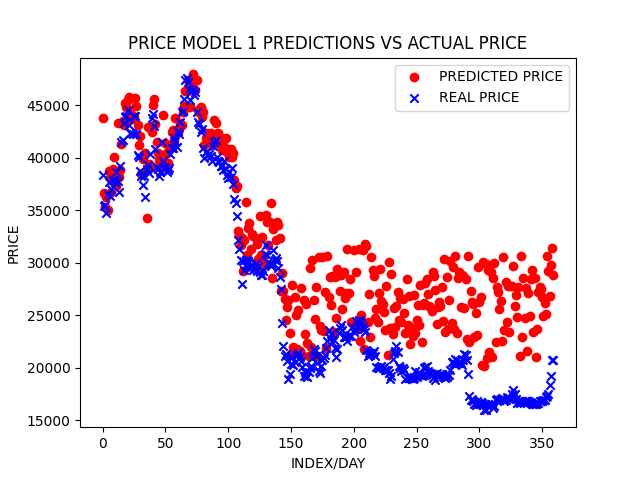
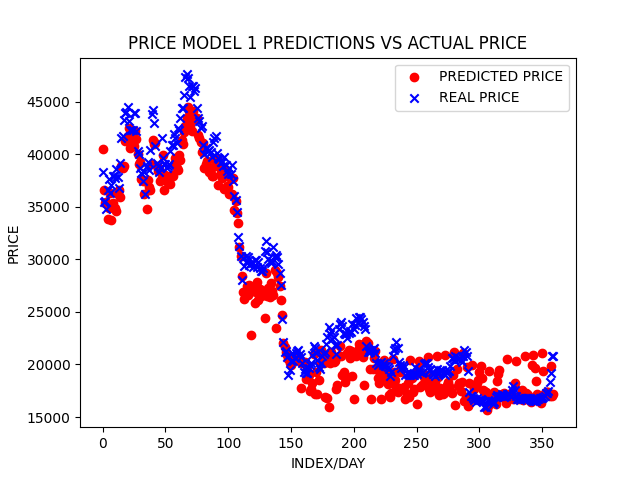
Ensemble predictions

diff --git a/main.py b/main.py
@@ -4,22 +4,13 @@ from train_test_eval_funcs import *
 import matplotlib.pyplot as plt
 from sklearn.preprocessing import StandardScaler
 import copy
+import numpy as np
+from ensembl_funcs import *
 
 '''
 TO DO: 
-
-TEST TO MAKE SURE THAT WE ELIMINATE THE FIRST 5 IN UNSCALED Y'S AND NOT THE LAST 5
-JUST WHATEVER DOES BETTER WHEN YOU TEST BOTH ON 1000 EPOCHS
-MAKE SURE YOU CHANGE NOT ONLY THE TRAIN_TST_EVALS FUNCTIONS BUT FOR GRAPGING YOU
-NEED TO ADJUST THEM WHEN YOU PASS IT YOU'LL SEE IT BELLOW YOU PASS THEM IN AS LIKE 
-[UNSCALED_PRICE[5:], UNSCALED_PERCENT[5:]]
-
-MAIN 2 SHOULD CONVER THE PRICES AND THE PERCENTAGES TO UNSCALED VALUES
-BOTH THE PREDICTIONS AND THE ACTUAL VALUES SO WE CAN SEE HOW FAR OFF IT REALLY IS 
-AT A PRICE/PERCENTAGE SCALE THAT IS NOT STANDARDIZED
-DID THIS WHOLE THING WEIRD COULD PROBABLY BE IMPROVED THINK THERE WAS A REASON
-I SCALED EVERYTHING THINK IT SEEMED TO IMPROVE EVERYTHING DURING TESTING BEEN A WHILE DON'T 
-ENTIRLEY REMEMBER BUT 
+BEFORE PASSING UNSCALED TO THE ENSEMBLE FUNC MAKE SURE TO CUT OFF THE FIRST 5 
+NEED TO FLATTEN PREDICTIONS
 '''
 
 def main():
@@ -62,34 +53,51 @@ def main():
 			preds,loss= test(models[i], price_test_data,scaler_price,unscaled_price)
 			predictions.append(preds)
 			test_losses.append(loss)
-			
 			price_model+=1
 		else:
-			#training_losses.append(train(models[i], percent_train_data,epochs,learning_rates[i]))
 			training_losses.append(train(models[i], percent_train_data,epochs,.001))
-			#preds,Y,loss, diff = test_for_preds(models[i], price_test_data,scaler)
 			preds,loss = test(models[i], percent_test_data,scaler_percent,unscaled_percent)
 			predictions.append(preds)
 			test_losses.append(loss)
 			percent_model +=1
+	
 	plot_train_loss(model_labels,training_losses,True)
-	'''
-	NOTE THAT IF IT'S NOT THE FIRST 5 even though i'm PRETTY SURE IT IS WE WILL HAVE TO CHANGE THIS
-	'''
 	plot_test_results(model_labels,predictions,[unscaled_price[5:],unscaled_percent[5:]],True)
+
+	#MAY HAVE TO USE NEW NAMES CAUSE I THINK IT FUCKS WITH PLOTTING
+	ensemble_predictions = []
+	targets = unscaled_price[5:].flatten()
+	for i in range(len(predictions)):
+		ensemble_predictions.append(predictions[i].flatten())
+
+	preds = []
+	errors = []
+	for i in range(len(ensemble_predictions)):
+		if i%2==0:
+			preds.append(ensemble_predictions[i])
+			errors.append(price_error(ensemble_predictions[i],targets))
+		else:
+			temp1,temp2 = percent_to_val(ensemble_predictions[i],targets)
+			preds.append(temp1)
+			errors.append(temp2)
+
+
+
+	ensemble_preds = get_ensemble_pred(preds,errors)
+
+	plot_ensemble(ensemble_preds,targets,True)
 	plt.show()
 
 
 def plot_train_loss(title, data,save_plot=False):
 	for x,i in enumerate(data):
 		plt.figure()
-		#x = [i for i in range(len(i))]
 		plt.plot(i)
 		plt.xlabel('EPOCH')
 		plt.ylabel("AVERAGE BATCH LOSS PER EPOCH")
 		plt.title(f"{title[x]} AVERAGE BATCH LOSS PER EPOCH")
 		if save_plot:
-			plt.savefig(f'{title[x]} train_losses.png')
+			plt.savefig(f'graphs_results/{title[x]} train_losses.png')
 
 def plot_test_results(title, preds,actual,save_plot=False):
 	for x,i in enumerate(preds):
@@ -103,7 +111,21 @@ def plot_test_results(title, preds,actual,save_plot=False):
 		plt.title(f"{title[x]} PREDICTIONS VS ACTUAL PRICE")
 		plt.legend()
 		if save_plot:
-			plt.savefig(f'{title[x]} Prediction_results.png')
+			plt.savefig(f'graphs_results/{title[x]} Prediction_results.png')
+
+def plot_ensemble(preds, targets,save_plot=False):
+	plt.figure()
+	x_axis = [point for point in range(len(targets))]
+	plt.scatter(x_axis, preds, color = 'red', marker='o', label="PREDICTED PRICE")
+	plt.scatter(x_axis,targets,color='blue',marker='x',label="REAL PRICE")
+	plt.xlabel('INDEX/DAY')
+	plt.ylabel("PRICE")
+	plt.title(f"ENSEMBLE PREDICTIONS VS ACTUAL PRICE")
+	plt.legend()
+	if save_plot:
+		plt.savefig(f'graphs_results/ENSEMBLE_Prediction_results.png')
+
+
 
 
 

diff --git a/ensembl_funcs.py b/ensembl_funcs.py
@@ -1,0 +1,35 @@
+import numpy as np
+
+def percent_to_val(preds,targets):
+	price_preds = [preds[0]/100 * targets[0] + targets[0]] + [(preds[i]/100 * targets[i-1] + targets[i-1]) for i in range(1,len(preds))]
+	targets = targets[1:]
+	errors = sum([(abs(i-x)) for i,x in zip(price_preds,targets)]) / len(price_preds)
+	return price_preds, errors
+
+def price_error(preds,targets):
+	return sum(abs(i-x) for i,x in zip(preds,targets))/len(targets)
+
+
+def get_ensemble_pred(preds, errors):
+    weights = [1/i for i in errors]
+    total_weight = sum(weights)
+    normalized_weights = [weight/total_weight for weight in weights]
+    def helper(preds, weight):
+        return [i * weight for i in preds]
+
+    weighted_preds = zip(*[helper(i, x) for i, x in zip(preds, normalized_weights)])
+    return [sum(elements) for elements in weighted_preds]
+
+
+
+
+
+
+
+
+
+
+
+
+
+

diff --git a/train_test_eval_funcs.py b/train_test_eval_funcs.py
@@ -43,6 +43,7 @@ def test(model,test_data,scaler,Y):
 			preds = model(X)
 			preds = convert(scaler,preds)
 			test_loss = loss_fn(preds.reshape(Y.shape),Y)
+
 	return preds.numpy(),test_loss.item()
 
 def convert(scaler, predictions):
@@ -50,6 +51,8 @@ def convert(scaler, predictions):
 	unscaled_preds = scaler.inverse_transform(predictions.reshape(-1,1))
 	back_to_torch = torch.from_numpy(unscaled_preds)
 	return back_to_torch
+
+
 
 
 

diff --git a/percent_pred_models.py b/percent_pred_models.py
@@ -1,6 +1,5 @@
 import torch
 import torch.nn as nn
-
 class Percent_model_1(nn.Module):
     def __init__(self, num_features=10,lstm_hidden_size=10,
                 fc_hidden_size=10,num_layers=2, dropout_prob=0):

diff --git a/README.md b/README.md
@@ -1,57 +1,84 @@
 # SUMMARY
-Predict tommorows BTC price and or the percent change in the price given 5 days (this can be changed in
-the code to add more or less days) of financial features. Uses 10 features that are historical 
-financial data about bitcoin which i have taken from https://messari.io/report/messari-metrics.
-Graph of incomplete results (see Note) can be found in the graphs_results folder.
-# NOTE:
-Not entirely finished waiting still
-on getting the results of hyperparamiters so results are not optimal. 
-Current results based on innacuarte params and for perdiction models used a learning rate of .001 and 
-for pure price predictions used a learning rate of .01.
-Graphs/results are the from running for 500 epochs.
-graphs_results folder contains current predictions and the average loss per batch for each epoch
+
+Predict tomorrow's BTC price and/or the percent change in the price given 5 days 
+(this can be changed in the code to add more or fewer days) of financial features. 
+Uses 10 features that are historical financial data about Bitcoin,
+which were obtained from [Messari Metrics](https://messari.io/report/messari-metrics). 
+Graphs of incomplete results (see Note) can be found in the "graphs_results" folder.
+
+# NOTE
+
+This project is not entirely finished, as we are waiting to obtain the results of hyperparameters, 
+so results are not optimal. Current results are based on inaccurate parameters. For prediction models, 
+a learning rate of 0.001 is used, and for pure price predictions, a learning rate of 0.01 is employed.
+Graphs/results are generated after running for 500 epochs.
+The [graphs_results](graphs_results) folder contains current predictions and the average loss per batch for each epoch.
+
 # FILES
 
-| File                     | Description                                                                                          |
-|-------------------------- |------------------------------------------------------------------------------------------------------|
-| [data.csv](data.csv)      | CSV file containing raw data.                                                                        |
-| [dataClass.py](dataClass.py) | Class to store and work with data, breaking it into prices and statistics. Handles data scaling, batching, and prediction day configuration. |
-| [get_best_models.py](get_best_models.py) | Helper function to determine the best model. |
-| [main.py](main.py)       | Run file to get results (please note that optimal hyperparameters are not available yet).         |
-| [params.json](params.json) | JSON file containing the best hyperparameters for the models. (NOTE NOT ACCURATE YET)|
-| [percent_pred_models.py](percent_pred_models.py) | Contains all 4 models that predict the next day's percent change in price. |
-| [price_pred_models.py](price_pred_models.py) | Contains all 4 models that predict the next day's price. |
-| [train_test_eval_funcs.py](train_test_eval_funcs.py) | Functions called by the main script to train and test the models. |
-| [validation_functions.py](validation_functions.py) | Functions used for validation purposes. |
-| [validation_main.py](validation_main.py) | Run file for obtaining hyperparameters for all 4 models. |
-| [TODO.txt](TODO.txt)     | A file containing a to-do list and notes on what needs to be done. |
-| [graphs_results](graphs_results) | Directory containing graphs and results (unscaled and currently not the best versions). |
+| File                                         | Description                                                          |
+|---------------------------------------------- |----------------------------------------------------------------------|
+| [data.csv](data.csv)                          | CSV file containing raw data.                                        |
+| [dataClass.py](dataClass.py)                  | Class to store and work with data, breaking it into prices and statistics. Handles data scaling, batching, and prediction day configuration. |
+| [get_best_models.py](get_best_models.py)      | Helper function to determine the best model.                           |
+| [main.py](main.py)                            | Run file to get results (please note that optimal hyperparameters are not available yet). |
+| [params.json](params.json)                    | JSON file containing the best hyperparameters for the models (NOTE: NOT ACCURATE YET). |
+| [Percent Change Prediction Models](percent_pred_models.py) | Contains all 4 models that predict the next day's percent change in price. |
+| [Price Prediction Models](price_pred_models.py) | Contains all 4 models that predict the next day's price. |
+| [Train Test and Evaluation Functions](train_test_eval_funcs.py) | Functions called by the main script to train and test the models. |
+| [validation functions](validation_functions.py) | Functions used for validation purposes. |
+| [validation driver](validation_main.py)       | Run file for obtaining hyperparameters for all 4 models. |
+| [TODO](TODO.txt)                              | A file containing a to-do list and notes on what needs to be done. |
+| [graphs and results](graphs_results)         | Directory containing graphs and results (unscaled and currently not the best versions). |
+| [Ensemble Functions](ensembl_funcs.py)        | Functions that help combine a weighted prediction from all models.
 
 # HOW TO RUN/Dependencies
+
 ## DEPENDENCIES
-### PYTORCH
-### SKLEARN
-### PANDAS
-### NUMPY
-### PANDAS 
+- PYTORCH
+- SKLEARN
+- PANDAS
+- NUMPY
+- PANDAS
 
-USES PYTHON3
-(Sorry i'm a 'data scientist' which means i just use libraries all day.) 
-SIMPLY RUN MAIN TO REPLICATE RESULTS
+USES PYTHON 3
 
-# TO-DO:
-1. Finish getting optimal hyper params
-2. Add more visualization
-3. Post results 
-4. Refactor my DataClass so I don't have to manually rescale
-5. Refactor to allow for easier customization whether that be to add and or reduce features
-or increases the number of days used to predict the next day
-6. Record results of predicting tomorows price predictions see how much money I would have 
-lost/gained if I pulled out my investments on predictions of it
-going down/vs putting money back in when I preict it going up
-7. Combine all models and predictions weighing it by the accuracy (possibly see what model is best at predicting 
-large/small changes and weight it using that) and essentially combine the predictions to make a more 
-informed decision
-8. Stop training when learning rate stops moving and or drops below a certain threshold
+(Sorry, I'm a 'data scientist,' which means I just use libraries all day.)
 
+Simply run `main.py` to replicate the results.
+
+# TO-DO
+
+1. Finish getting optimal hyperparameters.
+2. Add more visualization.
+3. Post results.
+4. Refactor my DataClass so I don't have to manually rescale.
+5. Refactor to allow for easier customization, whether that means adding or reducing features or increasing the number of days used to predict the next day.
+6. Record results of predicting tomorrow's price predictions to see how much money I would have gained or lost if I pulled out my investments on predictions of it going down versus putting money back in when I predict it going up.
+7. Stop training when the learning rate stops moving or drops below a certain threshold.
+
+
+# NOTES ON ENSEMBLE
+
+The Ensemble prediction is now working, but technically the first of the testing data ensemble predictions
+is not completely accurate since I don't have the raw input for the very first price. 
+This can easily be fixed, but as of now, that first ensemble prediction for the very first day in the testing 
+isn't as 'accurate' as I'd like it to be. This would not matter in a non-evaluation setting, though,
+since you'd have the unscaled price data if you were to do this every day to get the price,
+and it's only one data point in the evaluation, so it's not a big deal.
+Probably should have just taken this out of the graph, but as it stands, it is present.
+
+# HYPERPARAMETERS
+
+I DON'T HAVE THE OPTIMAL HYPERPARAMETERS YET! The validation process is running on my (incredibly) slow desktop, 
+and I'll use those once it's finished, and then repost the results with what should be better hyperparameters.
+I'll test on various different epoch sizes. Once those are in, I'll report back in greater detail about the accuracy loss, etc.
+
+# PARAMS.json
+
+See above. Those aren't accurate; I made a mistake in my previous validation, which led to inaccurate params.
+
+## BEST MODEL AT THE MOMENT
+
+Currently, the ensemble model seems to be getting the best results with out current suboptimal params
 
